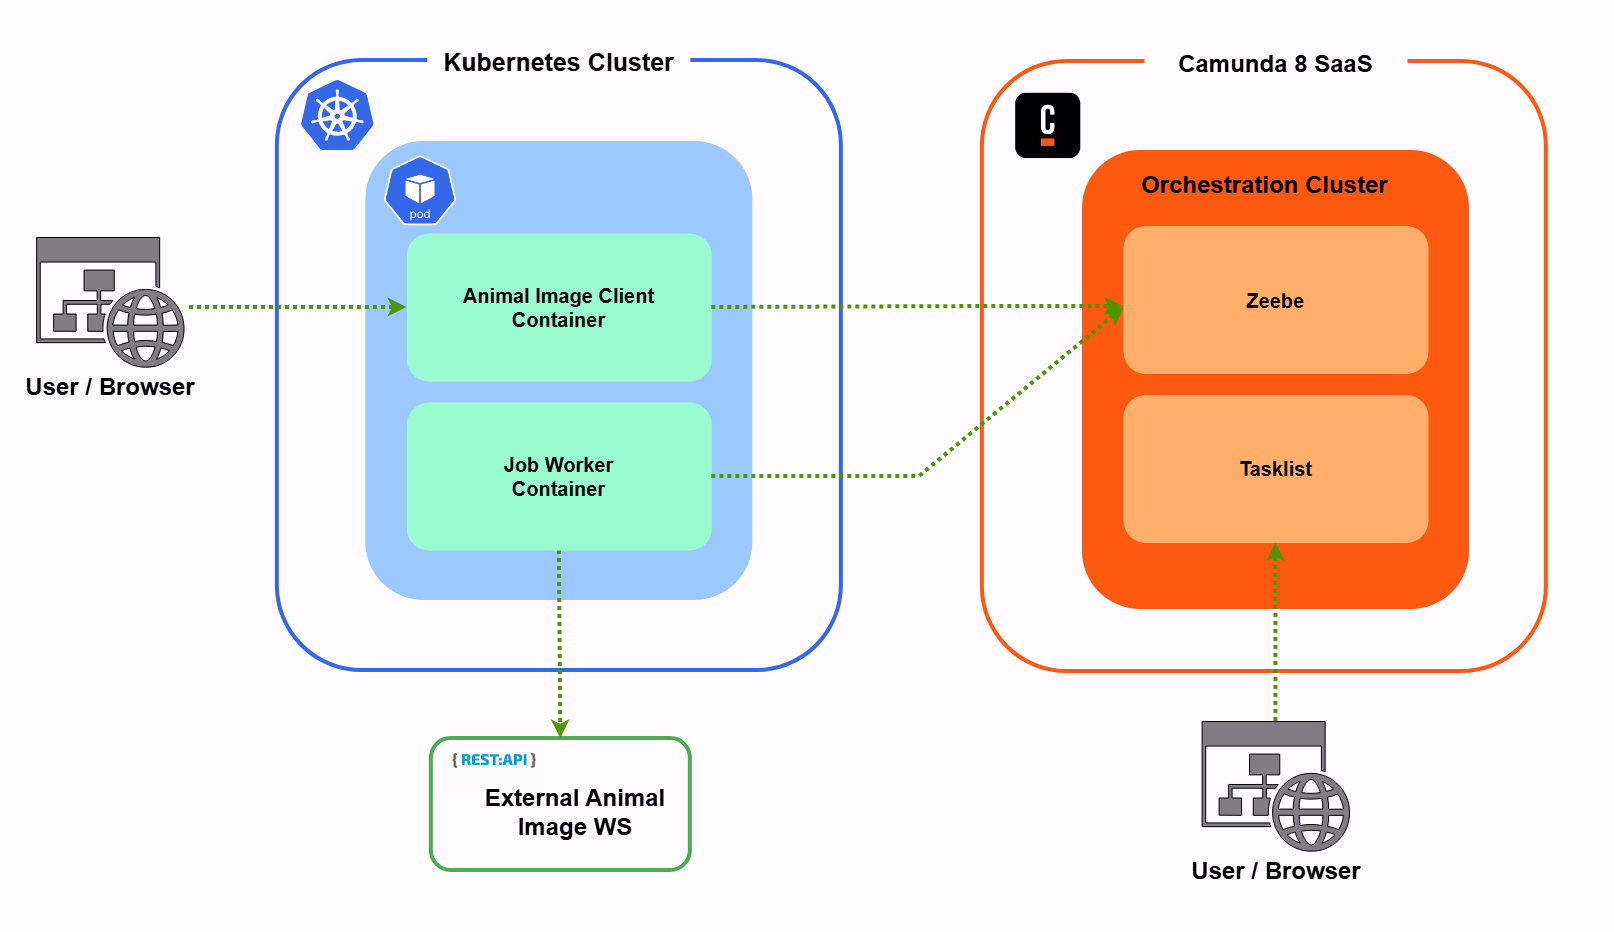
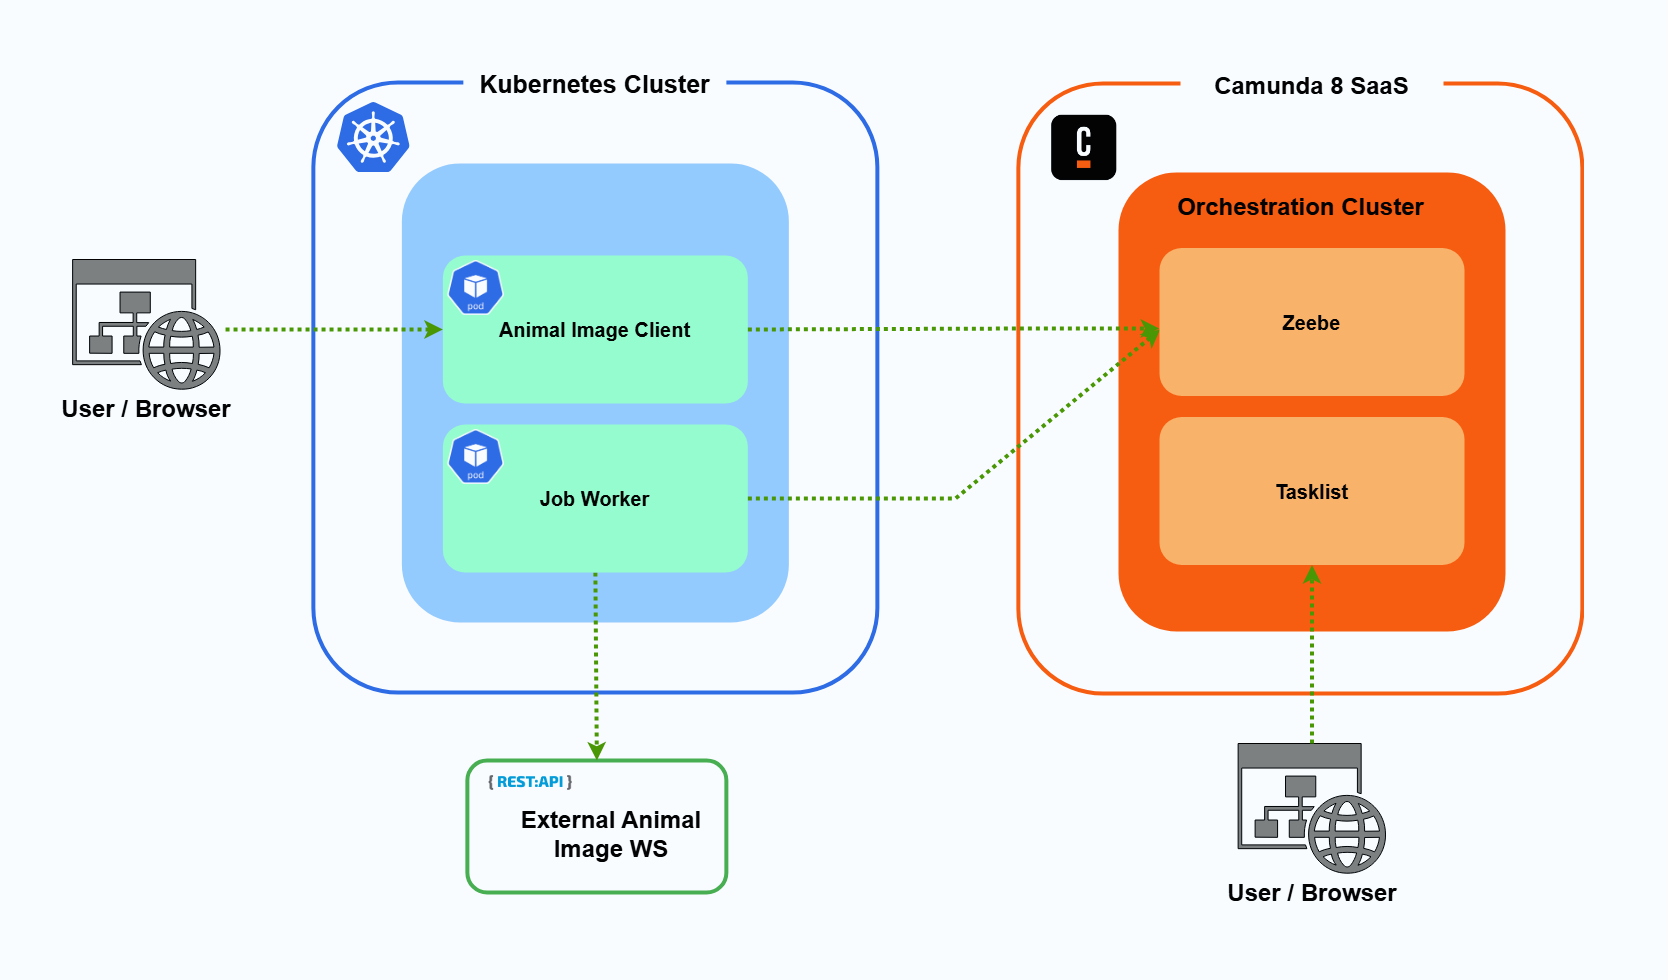
Updated helm to have split client app and job worker

diff --git a/src/service/camunda_service.py b/src/service/camunda_service.py
@@ -298,6 +298,8 @@ class CamundaService:
 
         except requests.exceptions.RequestException as exception:
             logger.error("%s -> Failed to connect to '%s' -> %s", logger.name, request_url, str(exception))
+        
+        return []
 
 
     def complete_job(self, job_key: str, variables: str) -> bool:
@@ -378,13 +380,66 @@ class CamundaService:
                 data=payload
             )
 
-            # if the job is successfully marked as failed , return True
+            # if the job is successfully marked as failed, return True
             if response.ok:
                 logger.info("%s -> Job failed: %s", logger.name, job_key)
 
                 return True
             else:
                 logger.error("%s -> Failed to mark the job '%s' as failed. Status Code: %s. Response: %s", logger.name, job_key, response.status_code, response.text)
+
+        except requests.exceptions.RequestException as exception:
+            logger.error("%s -> Failed to connect to '%s' -> %s", logger.name, request_url, str(exception))
+
+        return False
+
+
+    def throw_error_job(self, job_key: str, error_code: str, error_message: str):
+        """
+        Throw a business error for the job.
+
+        Args:
+            job_key (str): The key of the job to throw an error for.
+            error_code (str): The error code that will be matched with an error catch event.
+            error_message (str): An error message that provides additional context.
+
+        Returns:
+            bool: True if the business error was successfully thrown.
+        """
+
+        request_url = f"{self.base_url}/v2/jobs/{job_key}/error"
+
+        headers = {
+            "Content-Type": "application/json",
+            "Authorization": f"Bearer {self.access_token}"
+        }
+
+        payload = json.dumps({
+            "errorCode": error_code,
+            "errorMessage": f"Job {job_key} has thrown error: {error_message}",
+            "variables": {
+                "errorCode": error_code,
+                "errorMessage": f"Job {job_key} has thrown error: {error_message}"
+            }
+        })
+
+        logger.debug("payload: %s", payload)
+
+        try:
+            # throw a business error for the job
+            response = requests.post(
+                url=request_url,
+                headers=headers,
+                data=payload
+            )
+
+            # if the error is successfully thrown, return True
+            if response.ok:
+                logger.info("%s -> Error thrown for job: %s", logger.name, job_key)
+
+                return True
+            else:
+                logger.error("%s -> Failed to throw error for the job '%s'. Status Code: %s. Response: %s", logger.name, job_key, response.status_code, response.text)
 
         except requests.exceptions.RequestException as exception:
             logger.error("%s -> Failed to connect to '%s' -> %s", logger.name, request_url, str(exception))

diff --git a/src/job_worker/main.py b/src/job_worker/main.py
@@ -39,8 +39,6 @@ access_token = ""
 
 def main(camunda_service: CamundaService):
 
-    logger.debug("Token -> %s", access_token)
-
     # Activate the jobs for the service task type
     # NOTE: Set the timeout period to a relatively high 60 seconds as the call that handles the job completion can take around
     #       45 seconds to complete depending on which animal is picked. The duck and fox REST services are slow
@@ -60,7 +58,17 @@ def main(camunda_service: CamundaService):
 
         # handle the job failure or completion
         if not animal_image_url:
-            camunda_service.fail_job(job_key=job_key, error_message=f"Failed to get animal image for {animal}.")
+            camunda_service.throw_error_job(
+                job_key=job_key,
+                error_code="1",
+                error_message=f"Failed to get animal image for {animal}."
+            )
+        elif animal_image_url.endswith(".mp4"):
+            camunda_service.throw_error_job(
+                job_key=job_key,
+                error_code="2",
+                error_message=f"Incorrect extension for {animal} in url {animal_image_url}."
+            )
         else:
             animal_image_url = camunda_service.complete_job(job_key, variables={ OUTPUT_ANIMAL_URL_VAR: animal_image_url })
 
